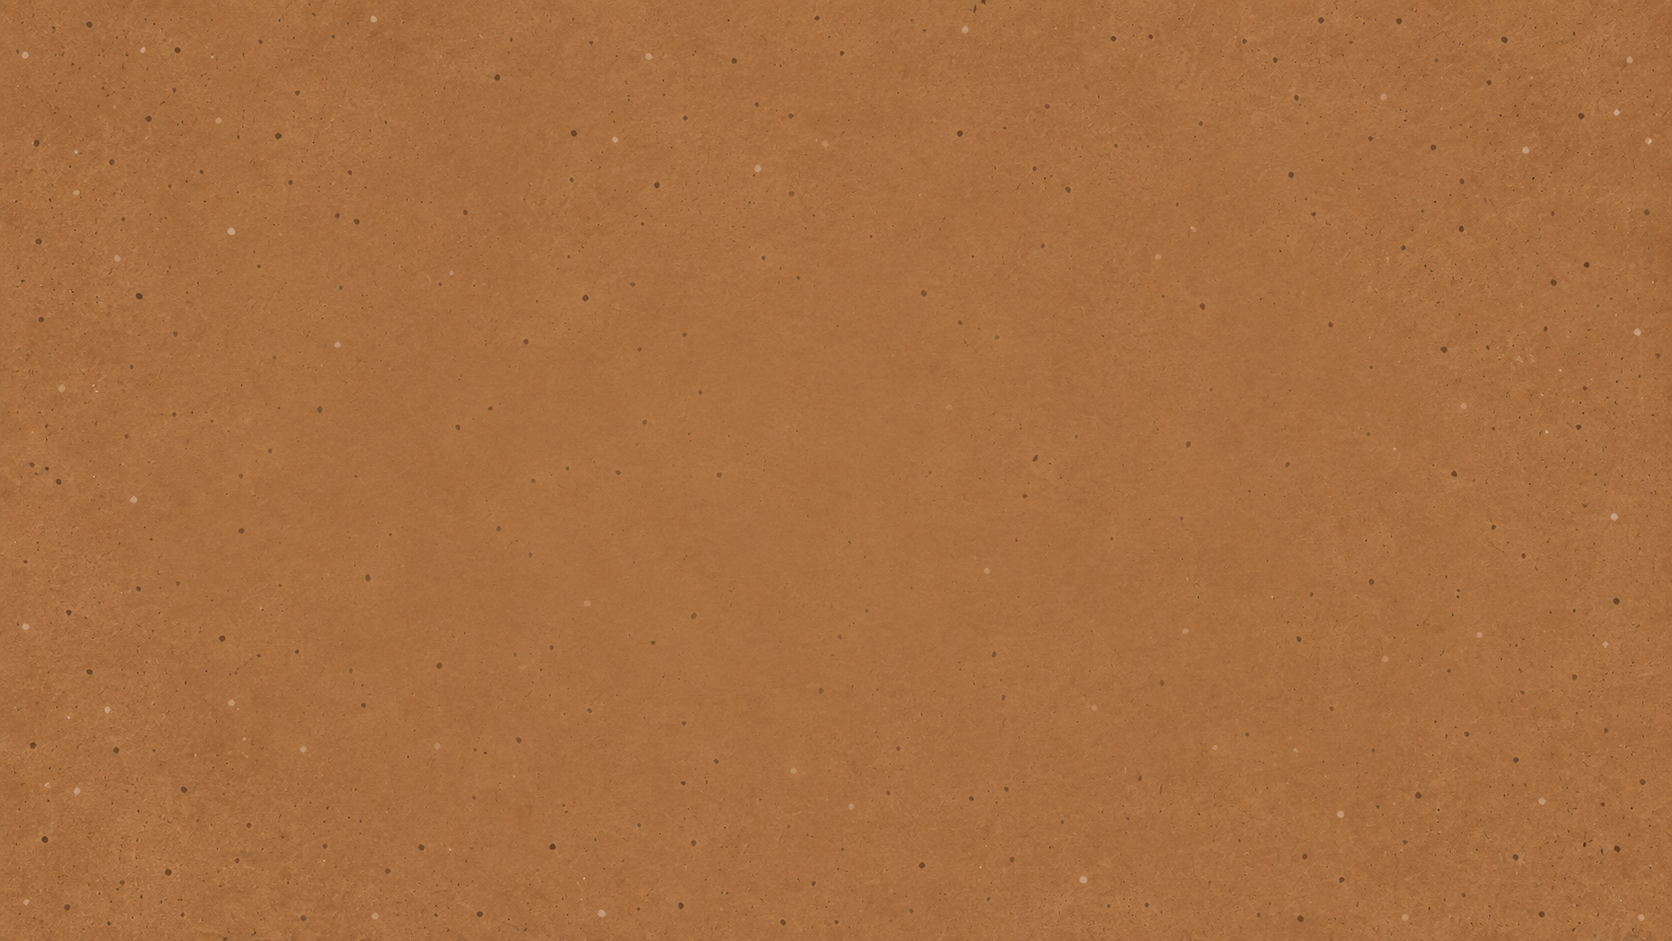
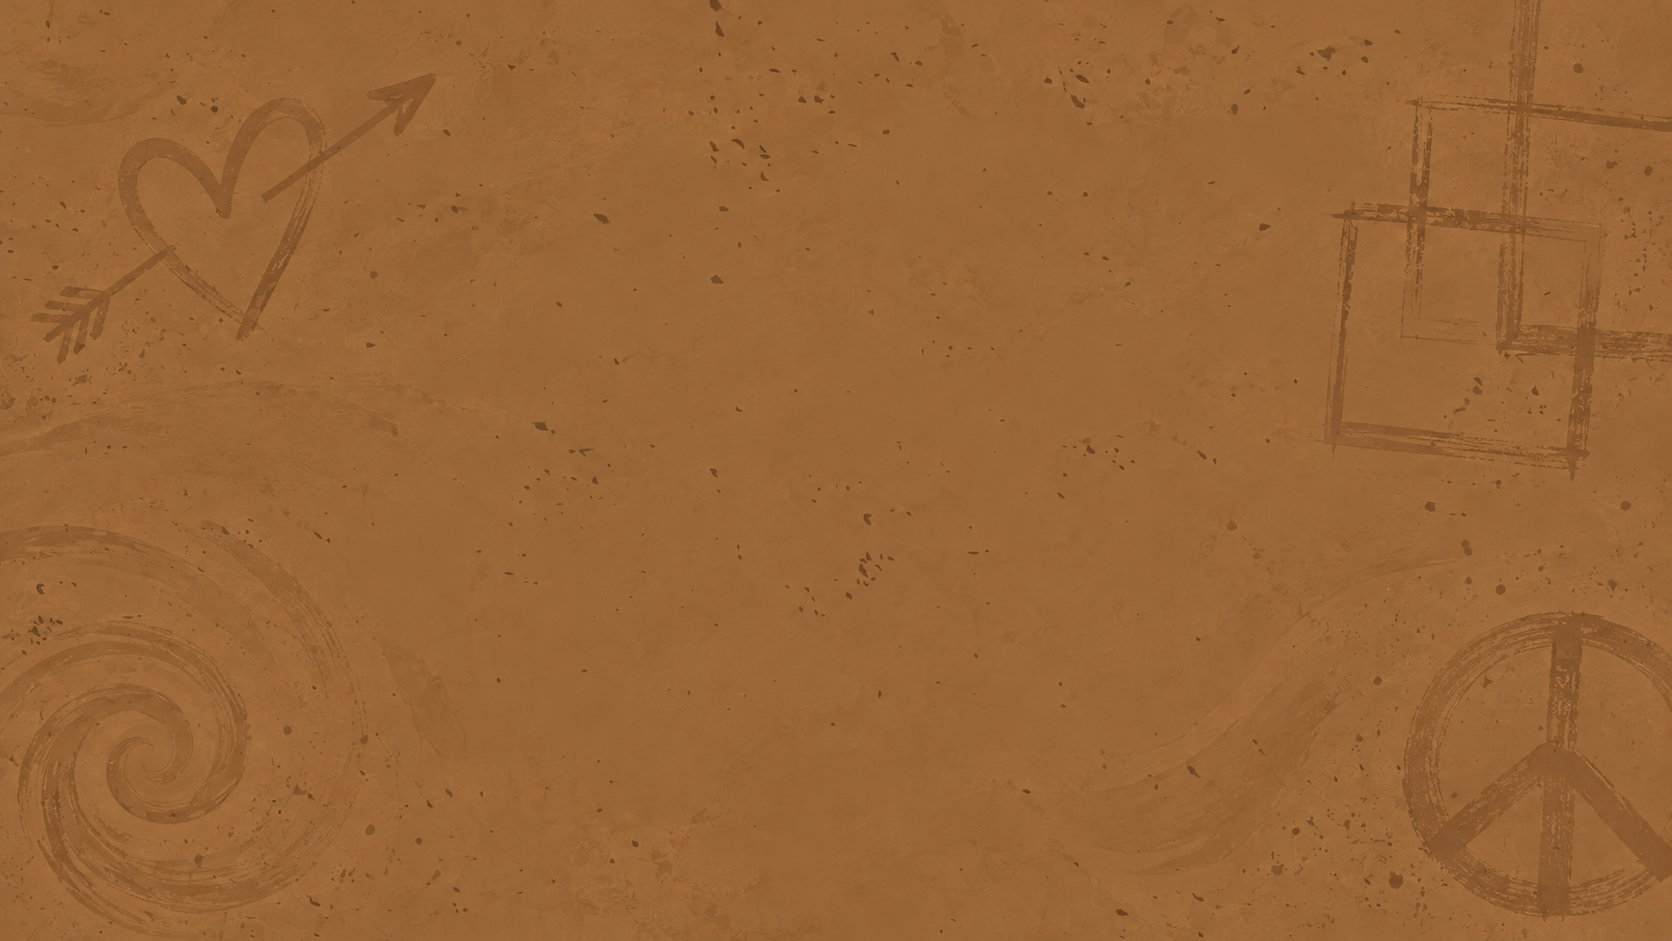
Assets+config: refresh Coaching Services background; footer phone → (469) 935-1307 (DID)

diff --git a/lib/site.ts b/lib/site.ts
@@ -8,8 +8,8 @@ export const site = {
   tagline: "Coaching & mentorship",
   city: "Austin, Texas",
   addressLines: ["123 Placeholder St, Suite 4", "Austin, TX 78704"],
-  phone: "(512) 555-0143",
-  phoneHref: "tel:+15125550143",
+  phone: "(469) 935-1307",
+  phoneHref: "tel:+14699351307",
   email: "hello@trueselfme.example.com",
   hours: "Mon–Fri · 9:00 AM – 6:00 PM CT",
   virtual: "Virtual sessions across the United States",
